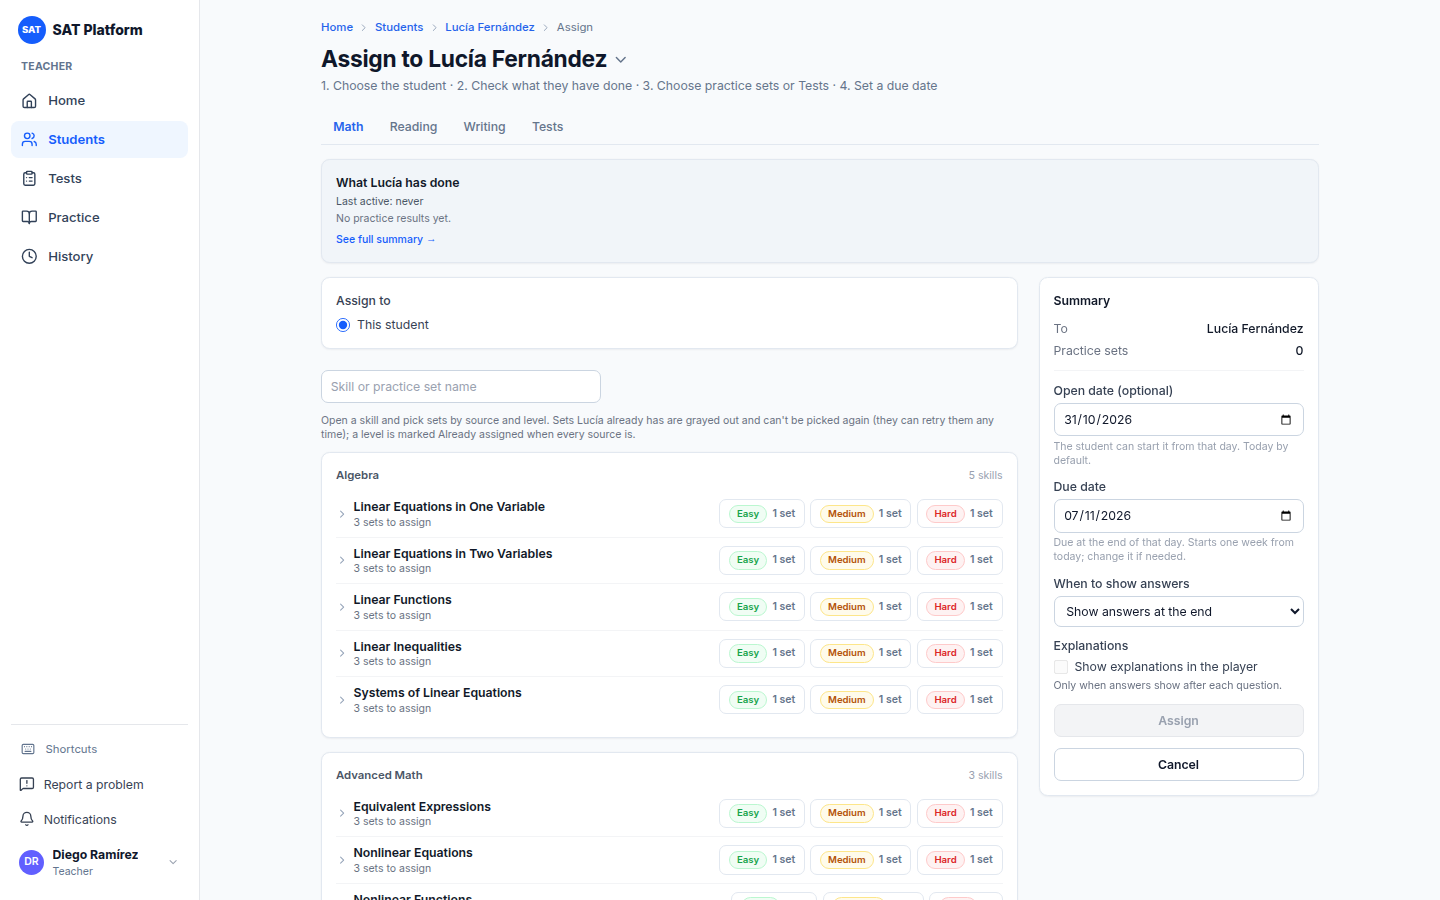
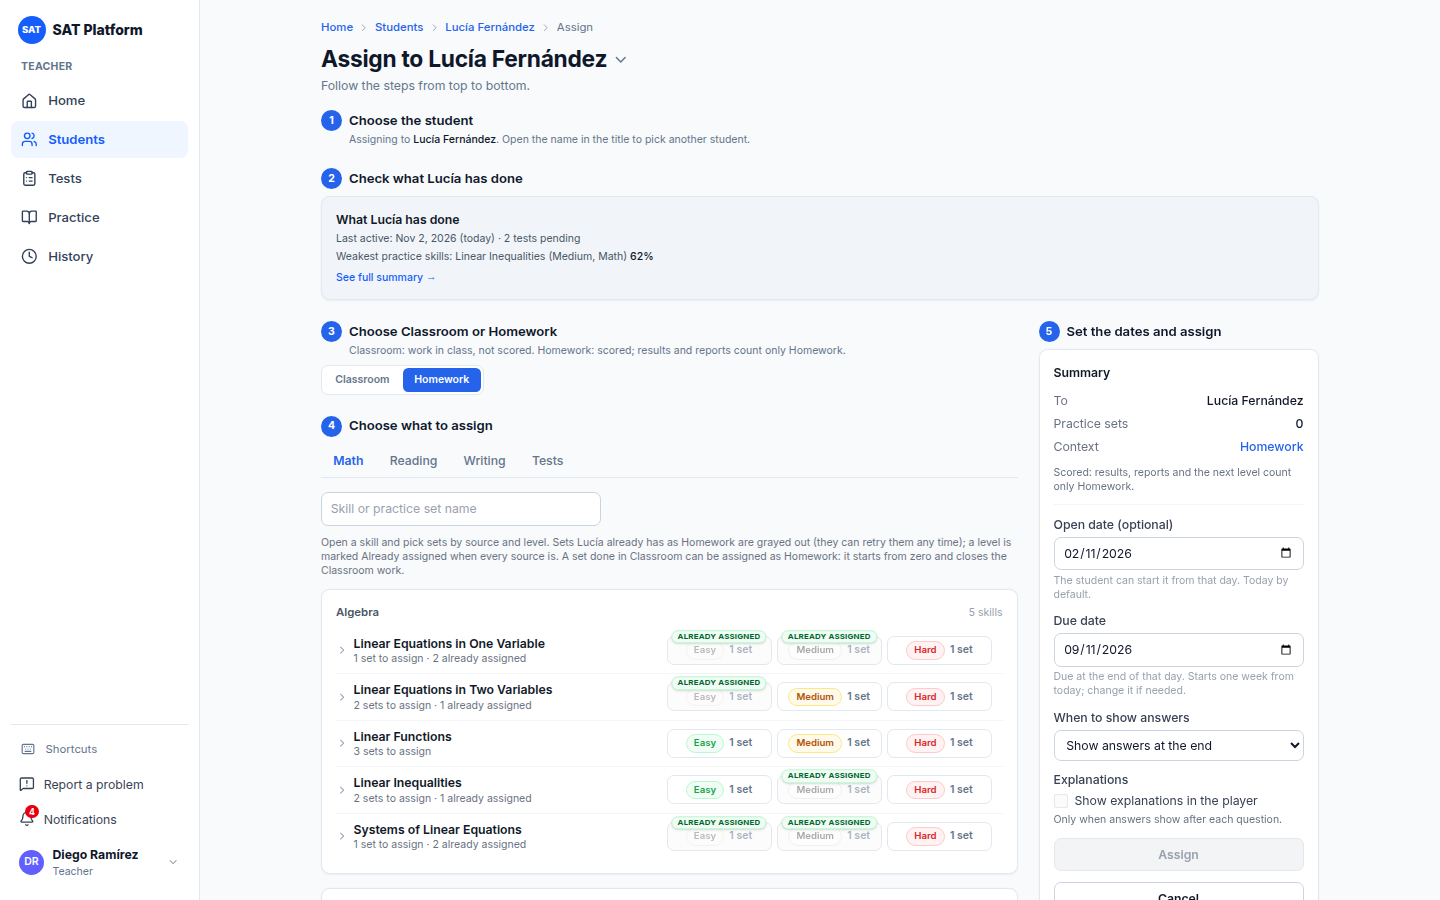
feat(assign): numbered steps from top to bottom; no "Assign to" card without groups
From the in-app report on the Assign view: 1 Choose the student (title list) · 2 Check what
they have done · 3 Classroom or Homework · 4 Choose what to assign (area tabs + sets) ·
5 Set the dates and assign (summary). Tests: 3 Choose the Test · 4 dates. The chosen context
stays in the URL (context=) so switching Math / Reading / Writing keeps it. The "Assign to ·
This student" card only shows when groups are on. Manuals and screenshots updated.

diff --git a/app/(teacher)/teacher/students/[studentId]/assign/assign-form-client.tsx b/app/(teacher)/teacher/students/[studentId]/assign/assign-form-client.tsx
@@ -17,6 +17,7 @@ import { AssignSummaryCard, defaultAssignOptions, type AssignOptions } from "@/c
 import { errorMessage, readApiError } from "@/lib/api-client";
 import { type AssignmentContext } from "@/lib/assignment-context";
 import { ContextToggle } from "@/components/sat/context-tabs";
+import { AssignStep } from "@/components/sat/assign-step";
 
 interface PracticeSetInfo {
   id: string;
@@ -85,6 +86,10 @@ interface AssignFormProps {
   initialSelected?: string[];
   /** Skill opened from the URL (`topic=`, or the preselected set's skill). */
   openSkillId?: string;
+  /** Math / Reading / Writing / Tests tabs (links), shown in the "Choose what to assign" step. */
+  areaTabs?: React.ReactNode;
+  /** Classroom / Homework already chosen (`context=` in the URL, kept when switching area). */
+  initialContext?: AssignmentContext;
 }
 
 export function AssignForm({
@@ -98,13 +103,15 @@ export function AssignForm({
   area,
   initialSelected = [],
   openSkillId,
+  areaTabs,
+  initialContext,
 }: AssignFormProps) {
   const router = useRouter();
   const editMode = editing.length > 0;
   const [target, setTarget] = useState<"student" | "group">("student");
   const [groupId, setGroupId] = useState(groups[0]?.id ?? "");
   // Classroom or Homework: always chosen by the teacher (no default); fixed when editing; groups are Homework.
-  const [chosenContext, setChosenContext] = useState<AssignmentContext | null>(editing[0]?.context ?? null);
+  const [chosenContext, setChosenContext] = useState<AssignmentContext | null>(editing[0]?.context ?? initialContext ?? null);
   const context: AssignmentContext | null = editMode ? editing[0].context : target === "group" ? "HOMEWORK" : chosenContext;
   // Already taken in the chosen tab: Homework = it has it as Homework; Classroom = it has it in Classroom
   // or as Homework (after Homework, Classroom is closed for that set).
@@ -113,6 +120,10 @@ export function AssignForm({
   const inHomeworkOnly = (ps: PracticeSetInfo) => context === "CLASSROOM" && ps.assignedIn.includes("HOMEWORK");
   function chooseContext(next: AssignmentContext) {
     setChosenContext(next);
+    // In the URL too, so the Math / Reading / Writing tabs keep it.
+    const url = new URL(window.location.href);
+    url.searchParams.set("context", next);
+    router.replace(`${url.pathname}${url.search}`, { scroll: false });
     // Switching tabs drops the selected sets that are already taken in the new one.
     setSelected((prev) => new Set([...prev].filter((id) => !practiceSets.some((ps) => ps.id === id && (next === "CLASSROOM" ? ps.assignedIn.length > 0 : ps.assignedIn.includes(next))))));
   }
@@ -228,6 +239,8 @@ export function AssignForm({
   return (
     <div className="grid items-start gap-6 lg:grid-cols-[minmax(0,1fr)_20rem]">
       <div className="min-w-0 space-y-6">
+      {/* "Assign to" only when there is a choice (groups on); editing lists what changes. */}
+      {editMode || groupAssignmentEnabled ? (
       <Card padding="md">
         {editMode ? (
           <>
@@ -294,15 +307,21 @@ export function AssignForm({
         </>
         )}
       </Card>
+      ) : null}
 
-      {/* Practice set picker: Practice › By skill cards, only sets the student doesn't have yet */}
+      {/* Step 3: Classroom or Homework. Step 4: the sets (Practice › By skill cards). */}
       {editMode ? null : (
-        <section className="space-y-3">
+        <>
+        <AssignStep n={3} title="Choose Classroom or Homework" hint="Classroom: work in class, not scored. Homework: scored; results and reports count only Homework.">
           <ContextToggle
             value={context}
             onChange={target === "group" ? undefined : chooseContext}
             fixedReason="Group assignments are Homework."
           />
+        </AssignStep>
+        <AssignStep n={4} title="Choose what to assign">
+        {areaTabs}
+        <div className="space-y-3">
           {!context ? (
             <p className="rounded-lg border border-dashed border-[var(--sat-border)] bg-white px-4 py-6 text-center text-sm text-[var(--sat-muted)]">
               Choose Classroom or Homework to pick sets.
@@ -376,13 +395,16 @@ export function AssignForm({
           <p className="text-xs text-gray-400">{selected.size} selected</p>
           </>
           )}
-        </section>
+        </div>
+        </AssignStep>
+        </>
       )}
 
       <InlineError>{error}</InlineError>
       </div>
 
       <aside className="lg:sticky lg:top-6">
+        <AssignStep n={editMode ? 3 : 5} title={editMode ? "Change the dates and save" : "Set the dates and assign"}>
         <AssignSummaryCard
           to={target === "group" ? groups.find((g) => g.id === groupId)?.name ?? "Group" : studentName}
           countLabel="Practice sets"
@@ -410,6 +432,7 @@ export function AssignForm({
           disabledReason={!context ? "Choose Classroom or Homework." : selected.size === 0 ? "Select at least one practice set." : null}
           onCancel={() => router.back()}
         />
+        </AssignStep>
       </aside>
 
       <Dialog open={success} onOpenChange={setSuccess}>

diff --git a/app/(teacher)/teacher/assign/assign-view.tsx b/app/(teacher)/teacher/assign/assign-view.tsx
@@ -11,7 +11,7 @@ import prisma from "@/lib/prisma";
 import { getFeatureSetting } from "@/lib/app-settings";
 import { assignableContentWhere, contentScopeFor, studentAccessWhereFor } from "@/lib/program-scope";
 import { refreshAssignmentStates } from "@/lib/assignments";
-import { loadStudentOverviews } from "@/lib/teacher-overview";
+import { loadStudentOverviews, type StudentOverview } from "@/lib/teacher-overview";
 import { domainRank } from "@/lib/taxonomy-order";
 import { ACTIVE_SOURCE_WHERE, DEFAULT_PRACTICE_SOURCE_ID } from "@/lib/content-source";
 import { resolvePracticeArea, tabFromPracticeArea } from "@/lib/practice-area";
@@ -19,6 +19,7 @@ import { assignHref, assignQuery, parseAssignParams, type AssignArea, type Assig
 import { difficultyLabel } from "@/lib/domain-meta";
 import { StudentSwitcher } from "../students/[studentId]/student-switcher";
 import { StudentDonePanel } from "../students/[studentId]/student-done-panel";
+import { AssignStep } from "@/components/sat/assign-step";
 import { AssignForm } from "../students/[studentId]/assign/assign-form-client";
 import { AssignTestForm } from "../students/[studentId]/assign-test/assign-test-form-client";
 
@@ -74,7 +75,9 @@ export async function AssignView({ studentId, query }: { studentId: string | nul
 
   // Switching student keeps what is being assigned (not the per-student edit).
   const carry = assignQuery({ ...params, edit: [] });
-  const tabs = AREA_TABS.map((t) => ({ key: t.key, label: t.label, href: assignHref({ studentId, area: t.key }) }));
+  // Math / Reading / Writing keep the Classroom / Homework tab already chosen.
+  const tabs = AREA_TABS.map((t) => ({ key: t.key, label: t.label, href: assignHref({ studentId, area: t.key, context: params.context }) }));
+  const areaTabs = <LinkTabs label="What to assign" active={params.area} tabs={tabs} />;
   const itemLabel = presetTest
     ? nameWithSource(presetTest.name, presetTest.source?.name ?? "No source")
     : presetSet
@@ -126,13 +129,24 @@ export async function AssignView({ studentId, query }: { studentId: string | nul
           ) : !student ? (
             "Choose the student in the title above."
           ) : (
-            "1. Choose the student · 2. Check what they have done · 3. Choose practice sets or Tests · 4. Set a due date"
+            "Follow the steps from top to bottom."
           )
         }
       />
-      <LinkTabs label="What to assign" active={params.area} tabs={tabs} />
+      {/* No student yet: only the area tabs (the steps start once a student is chosen). */}
+      {student ? null : areaTabs}
     </>
   );
+  // Steps 1–2 (the rest is in the form): the student (the name in the title) and what they have done.
+  const firstSteps = (overview: StudentOverview | undefined, focus: "practice" | "tests") =>
+    student ? (
+      <div className="mb-6 space-y-6">
+        <AssignStep n={1} title="Choose the student" hint={<>Assigning to <b className="font-medium text-[var(--sat-text)]">{student.name}</b>. Open the name in the title to pick another student.</>} />
+        <AssignStep n={2} title={`Check what ${student.name.split(" ")[0]} has done`}>
+          {overview ? <StudentDonePanel overview={overview} studentId={student.id} focus={focus} /> : <p className="text-sm text-[var(--sat-muted)]">Nothing done yet.</p>}
+        </AssignStep>
+      </div>
+    ) : null;
 
   // ------------------------------------------------------------ No student yet (from a Test / Practice Set)
   if (!student) {
@@ -180,8 +194,9 @@ export async function AssignView({ studentId, query }: { studentId: string | nul
       <PageShell>
         {header(Boolean(editingExam))}
         {presetTest && presetRow && !editingExam ? <Alert tone="info" className="mb-3">{first} already took {presetTest.name}; they can retake it from their Tests page.</Alert> : null}
-        {overview ? <StudentDonePanel overview={overview} studentId={student.id} focus="tests" /> : null}
+        {firstSteps(overview, "tests")}
         <AssignTestForm
+          areaTabs={areaTabs}
           editing={
             editingExam && presetRow
               ? {
@@ -272,8 +287,10 @@ export async function AssignView({ studentId, query }: { studentId: string | nul
           <Link href={`/teacher/students/${student.id}?area=${params.area}`} className="font-medium underline">See their results</Link>
         </Alert>
       ) : null}
-      {overview ? <StudentDonePanel overview={overview} studentId={student.id} focus="practice" /> : null}
+      {firstSteps(overview, "practice")}
       <AssignForm
+        areaTabs={areaTabs}
+        initialContext={params.context}
         key={`${student.id}-${params.area}`}
         studentId={student.id}
         studentName={student.name}

diff --git a/app/(teacher)/teacher/students/[studentId]/assign-test/assign-test-form-client.tsx b/app/(teacher)/teacher/students/[studentId]/assign-test/assign-test-form-client.tsx
@@ -6,6 +6,7 @@ import { Select } from "@/components/ui/select";
 import { useState } from "react";
 import { useRouter } from "next/navigation";
 import { Card } from "@/components/ui/card";
+import { AssignStep } from "@/components/sat/assign-step";
 import { Input } from "@/components/ui/input";
 import { cn } from "@/lib/utils";
 import { InlineError } from "@/components/sat/alert";
@@ -37,7 +38,10 @@ export function AssignTestForm({
   initialSelected,
   groups = [],
   groupAssignmentEnabled = false,
+  areaTabs,
 }: {
+  /** Math / Reading / Writing / Tests tabs (links), shown in the "Choose the Test" step. */
+  areaTabs?: React.ReactNode;
   studentId: string;
   studentName: string;
   exams: ExamOption[];
@@ -135,6 +139,8 @@ export function AssignTestForm({
 
   return (
     <div className="grid items-start gap-6 lg:grid-cols-[minmax(0,1fr)_20rem]">
+    <AssignStep n={3} title={editing ? "What you are changing" : "Choose the Test"}>
+    {editing ? null : areaTabs}
     <Card padding="lg" className="min-w-0 space-y-4">
       <p className="text-sm text-gray-600">
         {editing ? "Settings for" : "Assign tests to"} <span className="font-medium text-blue-700">{useGroup ? group?.name ?? "Group" : studentName}</span>
@@ -212,8 +218,10 @@ export function AssignTestForm({
       <InlineError>{error}</InlineError>
       {done && <p className="text-sm font-medium text-green-600">✓ {doneMessage} Redirecting...</p>}
     </Card>
+    </AssignStep>
 
     <aside className="lg:sticky lg:top-6">
+      <AssignStep n={4} title={editing ? "Change the dates and save" : "Set the dates and assign"}>
       <AssignSummaryCard
         to={useGroup ? group?.name ?? "Group" : studentName}
         countLabel="Tests"
@@ -227,6 +235,7 @@ export function AssignTestForm({
         disabledReason={done ? "Already assigned." : selected.size === 0 ? "Select at least one test." : null}
         onCancel={() => router.push(returnHref)}
       />
+      </AssignStep>
     </aside>
     </div>
   );

diff --git a/lib/assign-params.ts b/lib/assign-params.ts
@@ -17,6 +17,8 @@ export interface AssignParams {
   difficulty?: string;
   source?: string;
   edit: string[];
+  /** Practice: the Classroom / Homework tab already chosen (kept when switching Math / Reading / Writing). */
+  context?: "CLASSROOM" | "HOMEWORK";
 }
 
 type RawParams = Record<string, string | string[] | undefined | null>;
@@ -43,6 +45,7 @@ export function parseAssignParams(raw: RawParams): AssignParams {
   const tab = test ? "tests" : activeAreaTab(areaRaw, "math");
   const area: AssignArea = tab === "reading" || tab === "writing" || tab === "tests" ? tab : "math";
   const difficulty = first(raw.difficulty)?.toUpperCase();
+  const context = first(raw.context)?.toUpperCase();
   return {
     area,
     set: ids(raw.set),
@@ -50,6 +53,7 @@ export function parseAssignParams(raw: RawParams): AssignParams {
     topic: oneId(raw.topic),
     difficulty: difficulty && ["EASY", "MEDIUM", "HARD"].includes(difficulty) ? difficulty : undefined,
     source: oneId(raw.source),
+    context: context === "CLASSROOM" || context === "HOMEWORK" ? context : undefined,
     edit: [...new Set([raw.edit, raw.sets].flatMap((v) => (Array.isArray(v) ? v : [v ?? ""])).flatMap((v) => v.split(",")).map((v) => v.trim()).filter((v) => EDIT_REF.test(v)))],
   };
 }
@@ -65,6 +69,7 @@ export function assignHref(params: Partial<AssignParams> & { studentId?: string 
   if (params.difficulty) query.set("difficulty", params.difficulty);
   if (params.source) query.set("source", params.source);
   if (params.edit?.length) query.set("edit", params.edit.join(","));
+  if (params.context && area !== "tests") query.set("context", params.context);
   const path = params.studentId ? `/teacher/students/${encodeURIComponent(params.studentId)}/assign` : "/teacher/assign";
   return `${path}?${query.toString()}`;
 }

diff --git a/components/sat/assign-step.tsx b/components/sat/assign-step.tsx
@@ -1,0 +1,35 @@
+import { cn } from "@/lib/utils";
+
+/**
+ * A numbered step of the Assign view ("1. Choose the student", "2. Check what they have done"…),
+ * read from top to bottom. The heading sits above the step's content.
+ */
+export function AssignStep({
+  n,
+  title,
+  hint,
+  children,
+  className,
+}: {
+  n: number;
+  title: React.ReactNode;
+  hint?: React.ReactNode;
+  children?: React.ReactNode;
+  className?: string;
+}) {
+  return (
+    <section className={cn("min-w-0", className)}>
+      <div className="mb-2 flex flex-wrap items-center gap-x-2 gap-y-0.5">
+        <span aria-hidden className="flex h-6 w-6 shrink-0 items-center justify-center rounded-full bg-[var(--sat-primary)] text-xs font-bold text-white">
+          {n}
+        </span>
+        <h2 className="text-[15px] font-semibold text-[var(--sat-text)]">
+          <span className="sr-only">Step {n}: </span>
+          {title}
+        </h2>
+        {hint ? <p className="w-full pl-8 text-xs text-[var(--sat-muted)]">{hint}</p> : null}
+      </div>
+      {children}
+    </section>
+  );
+}

diff --git a/components/sat/assign-summary-card.tsx b/components/sat/assign-summary-card.tsx
@@ -103,7 +103,7 @@ export function AssignSummaryCard({
             ? "Work in class: the student sees what they did, no scores; it never counts in reports."
             : context.value === "HOMEWORK"
               ? "Scored: results, reports and the next level count only Homework."
-              : "Choose Classroom or Homework above the sets."}
+              : "Choose Classroom or Homework in step 3."}
           {context.note ? ` ${context.note}` : ""}
         </p>
       ) : null}

diff --git a/docs/manual/manual-profesor.es.md b/docs/manual/manual-profesor.es.md
@@ -100,18 +100,21 @@ Botones de la ficha:
 
 ## 5. Asignar práctica y Tests
 
-La vista **Assign** es la misma para práctica y Tests. Se abre desde **Assign** en la lista de alumnos, desde la ficha del alumno o desde un set o Test.
+La vista **Assign** es la misma para práctica y Tests. Se abre desde **Assign** en la lista de alumnos, desde la ficha del alumno o desde un set o Test. Los pasos van numerados de arriba hacia abajo, cada uno con su subtítulo.
 
 ### Asignar sets de práctica
 
-1. Elige el área en las pestañas (**Math**, **Reading**, **Writing**).
-2. Abre una habilidad: verás una fila por **fuente** activa (hoy, College Board) con un botón por nivel (**Easy**, **Medium**, **Hard**). Pulsa los sets que quieres asignar. Un nivel sin sets muestra **—**.
-3. En el resumen de la derecha define:
+1. **Choose the student**: el nombre del título es una lista; ábrela para cambiar de alumno.
+2. **Check what … has done**: lo que el alumno ya hizo (última actividad, habilidades más débiles).
+3. **Choose Classroom or Homework**: elige una de las dos pestañas (ver [Classroom y Homework](#classroom-y-homework)).
+4. **Choose what to assign**: elige el área (**Math**, **Reading**, **Writing**; **Tests** lleva a los Tests) y abre una habilidad. Verás una fila por **fuente** activa (hoy, College Board) con un botón por nivel (**Easy**, **Medium**, **Hard**). Pulsa los sets que quieres asignar. Un nivel sin sets muestra **—**.
+5. **Set the dates and assign**: en el resumen de la derecha define:
    - **Open date (optional)**: desde cuándo puede empezar (por defecto hoy).
    - **Due date**: fecha límite (por defecto en una semana).
    - **When to show answers**: **Show answers at the end** o **Show the answer after each question** (el alumno pulsa **Check** en cada pregunta).
    - **Show explanations in the player**: muestra la explicación al comprobar (solo con respuestas después de cada pregunta).
-4. Pulsa **Assign (n)**.
+
+   Y pulsa **Assign (n)**.
 
 ![Vista para asignar práctica](img/teacher-assign-practice-empty.png)
 

diff --git a/docs/manual/teacher-manual.en.md b/docs/manual/teacher-manual.en.md
@@ -100,18 +100,21 @@ Buttons on the page:
 
 ## 5. Assigning practice and Tests
 
-The **Assign** view is the same for practice and Tests. Open it from **Assign** in the student list, from the student's page or from a set or Test.
+The **Assign** view is the same for practice and Tests. Open it from **Assign** in the student list, from the student's page or from a set or Test. The steps are numbered from top to bottom, each with its own heading.
 
 ### Assigning practice sets
 
-1. Choose the area in the tabs (**Math**, **Reading**, **Writing**).
-2. Open a skill: you'll see one row per active **source** (today, College Board) with one button per level (**Easy**, **Medium**, **Hard**). Click the sets you want to assign. A level with no sets shows **—**.
-3. In the summary on the right set:
+1. **Choose the student**: the name in the title is a list; open it to switch student.
+2. **Check what … has done**: what the student has already done (last activity, weakest skills).
+3. **Choose Classroom or Homework**: pick one of the two tabs (see [Classroom and Homework](#classroom-and-homework)).
+4. **Choose what to assign**: pick the area (**Math**, **Reading**, **Writing**; **Tests** goes to Tests) and open a skill. You'll see one row per active **source** (today, College Board) with one button per level (**Easy**, **Medium**, **Hard**). Click the sets you want to assign. A level with no sets shows **—**.
+5. **Set the dates and assign**: in the summary on the right set:
    - **Open date (optional)**: from when they can start (today by default).
    - **Due date**: the deadline (one week by default).
    - **When to show answers**: **Show answers at the end** or **Show the answer after each question** (the student clicks **Check** on each question).
    - **Show explanations in the player**: shows the explanation when checking (only with answers after each question).
-4. Click **Assign (n)**.
+
+   Then click **Assign (n)**.
 
 ![Assign view for practice](img/teacher-assign-practice-empty.png)
 
